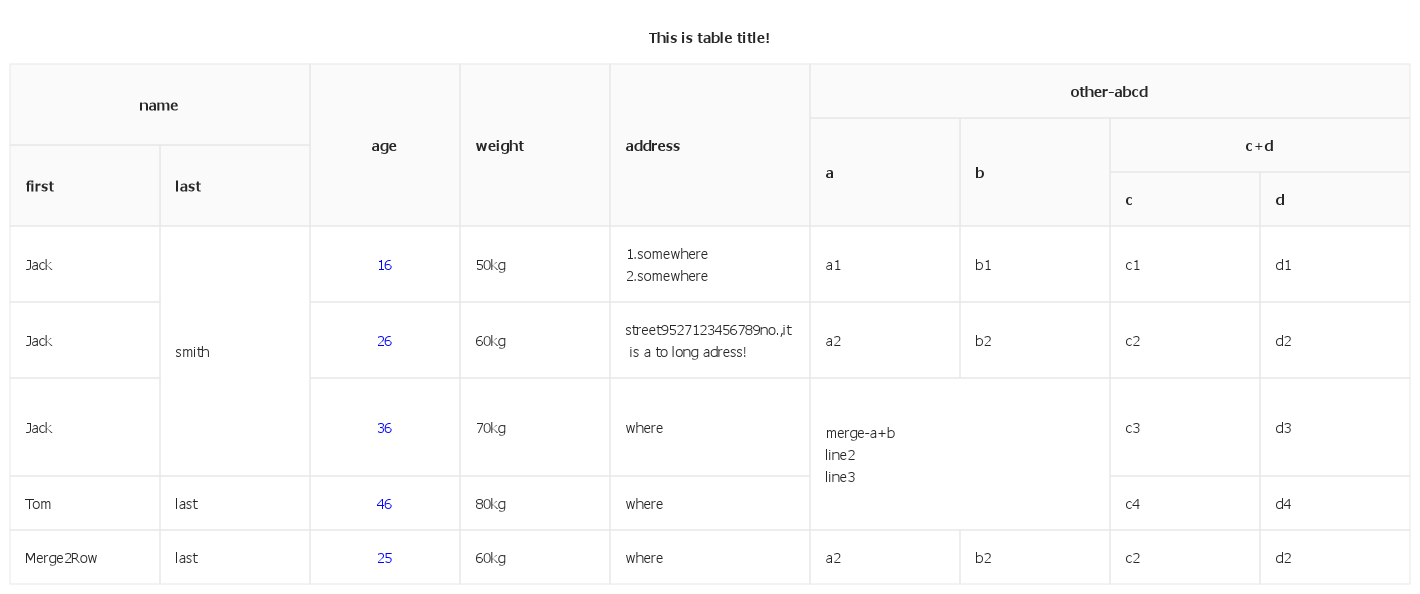
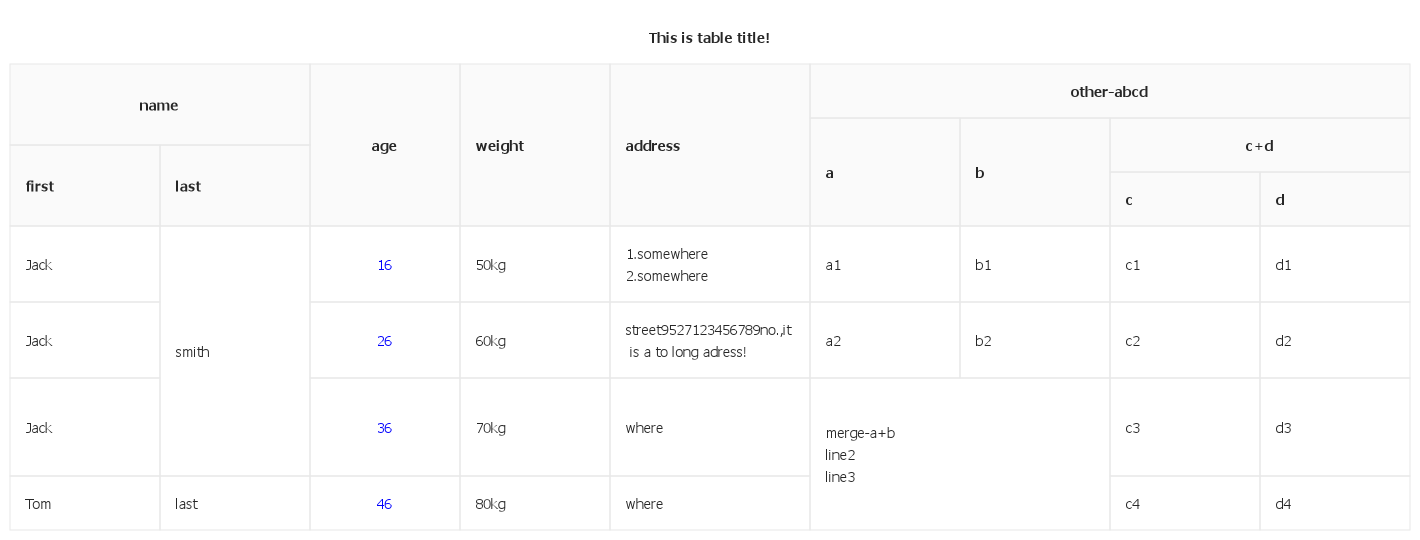
调整文案说明

diff --git a/src/test.ts b/src/test.ts
@@ -78,7 +78,6 @@ const dataSource: any[] = [
     { first: 'Jack', last: 'smith', age: 26, weight: 60, address: 'street9527123456789no.,it is a to long adress!', a: 'a2', b: 'b2', c: 'c2', d: 'd2' },
     { first: 'Jack', last: 'last', age: 36, weight: 70, address: 'where', a: 'merge-a+b\nline2\nline3', b: 'merge-a+b', c: 'c3', d: 'd3' },
     { first: 'Tom', last: 'last', age: 46, weight: 80, address: 'where', a: 'merge-a+b', b: 'merge-a+b', c: 'c4', d: 'd4' },
-    { first: 'Merge2Row', last: 'last', age: 25, weight: 60, address: 'where', a: 'a2', b: 'b2', c: 'c2', d: 'd2' },
 ]
 
 const table = new Table2canvas({

diff --git a/README.md b/README.md
@@ -26,9 +26,12 @@ const columns = [
                 dataIndex: 'last',
                 render: (text, row, i) => {
                     if (i === 0) {
-                        return { text, rowSpan: 2 }
+                        return { text, rowSpan: 3 }
                     }
                     if (i === 1) {
+                        return { text, rowSpan: 0 }
+                    }
+                    if (i === 2) {
                         return { text, rowSpan: 0 }
                     }
                     return text;
@@ -81,10 +84,10 @@ const columns = [
     }
 ]
 
-const dataSource = [
-    { first: 'Jack', last: 'smith', age: 16, weight: 50, address: 'where', a: 'a1', b: 'b1', c: 'c1', d: 'd1' },
-    { first: 'Jack', last: 'smith', age: 26, weight: 60, address: 'where', a: 'a2', b: 'b2', c: 'c2', d: 'd2' },
-    { first: 'Jack', last: 'last', age: 36, weight: 70, address: 'where', a: 'merge-a+b', b: 'merge-a+b', c: 'c3', d: 'd3' },
+const dataSource: any[] = [
+    { first: 'Jack', last: 'smith', age: 16, weight: 50, address: '1.somewhere\n2.somewhere', a: 'a1', b: 'b1', c: 'c1', d: 'd1' },
+    { first: 'Jack', last: 'smith', age: 26, weight: 60, address: 'street9527123456789no.,it is a to long adress!', a: 'a2', b: 'b2', c: 'c2', d: 'd2' },
+    { first: 'Jack', last: 'last', age: 36, weight: 70, address: 'where', a: 'merge-a+b\nline2\nline3', b: 'merge-a+b', c: 'c3', d: 'd3' },
     { first: 'Tom', last: 'last', age: 46, weight: 80, address: 'where', a: 'merge-a+b', b: 'merge-a+b', c: 'c4', d: 'd4' },
 ]
 
@@ -93,11 +96,13 @@ const table = new Table2canvas({
     columns: columns,
     dataSource: dataSource,
     bgColor: '#fff',
+    text: 'This is table title!',
 })
 
 const buffer = table.canvas.toBuffer();
 
-fs.writeFileSync('demo.png', buffer);
+fs.writeFileSync('a.png', buffer);
+
 ```
 
 result:demo.png
@@ -134,7 +139,7 @@ document.body.appendChild(table.canvas);
 | dataSource | dataSource for table | Record<string,any> | - | - |
 | style | Table's style | TableStyle | ... | no |
 | text | Table's title | string | - | no |
-| textStyle | Table's title style(color,fontSize,textAlign) | TextStyle | ... | no |
+| textStyle | Table's title style(color,fontSize,fontFamily,textAlign,lineHeight) | TextStyle | ... | no |
 
 ### IColumn
 
@@ -158,8 +163,6 @@ document.body.appendChild(table.canvas);
 
 | Property | Description | type |  Default | Required |
 | :----: | :----: | :----: | :----: | :----: |
-| headerRowHeight | height of header cell default value of rowHeight | number | 55 | no |
-| rowHeight | height of each row | number | 55 | no |
 | columnWidth | default width of all columns | number | 150 | no |
 | borderColor | color of border | string | '#e8e8e8' | no |
 | textAlign | The specify which way that column is aligned | string | 'left' | no |
@@ -168,4 +171,4 @@ document.body.appendChild(table.canvas);
 | fontFamily | fontFamily of table | string | 'sans-serif' | no |
 | headerBgColor | background color of header cell | string | 'rgba(0,0,0,0.02)' | no |
 | background | background color of table | string | - | no|
-| paddingLR | both left and right padding of table cell | number \| [number, number] | 8 | no |
+| padding | padding of table cell | number \| number[] | 16 | no |
